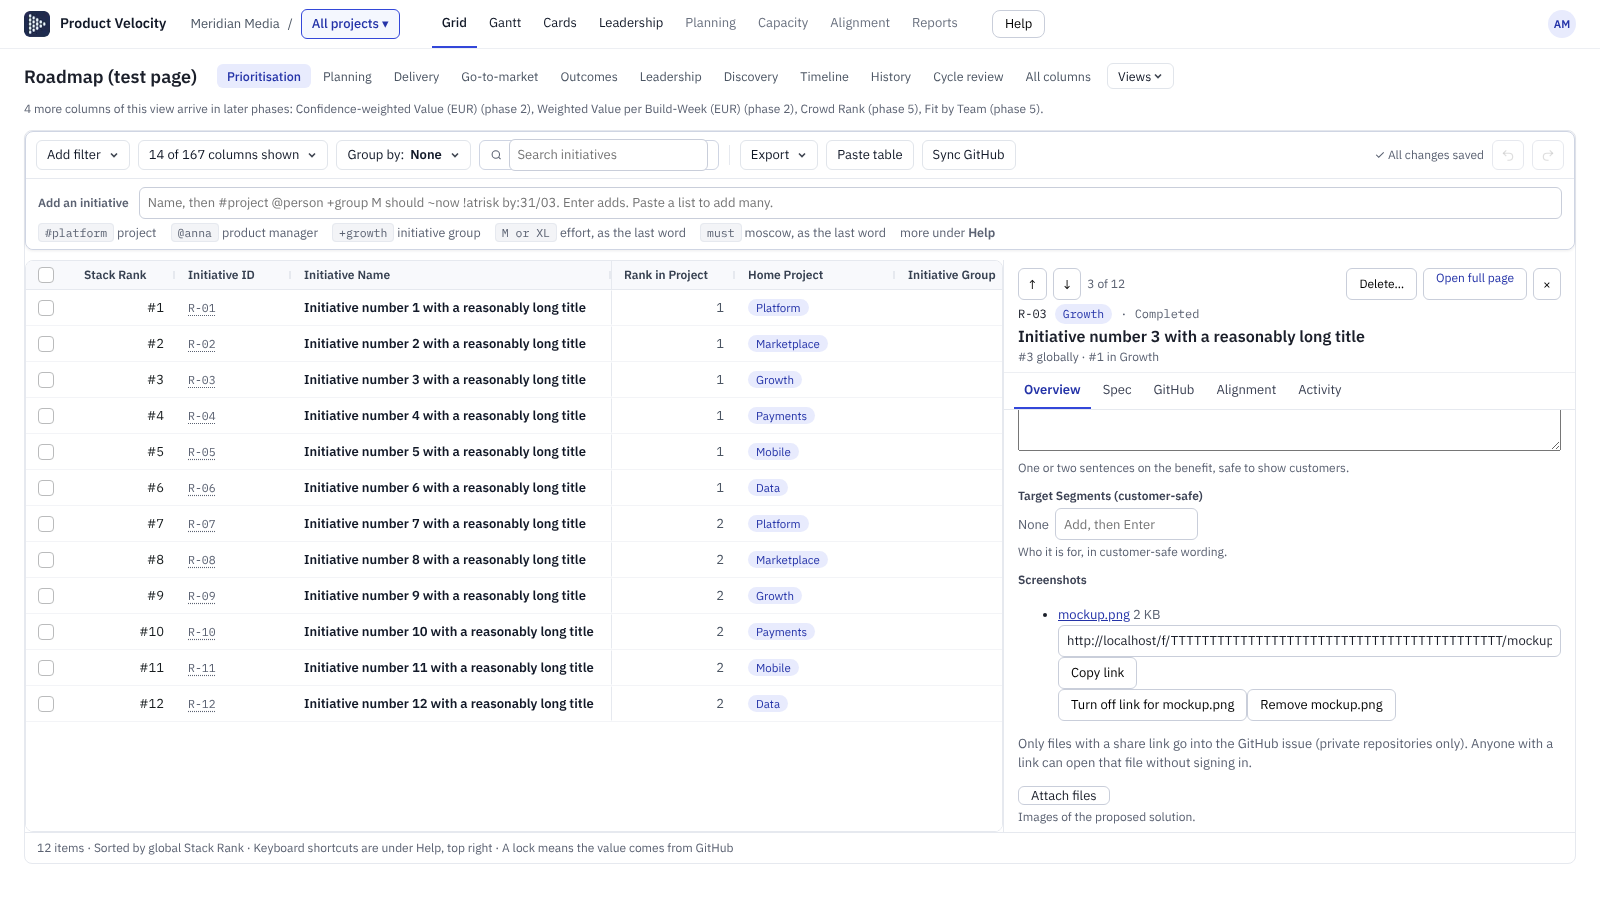
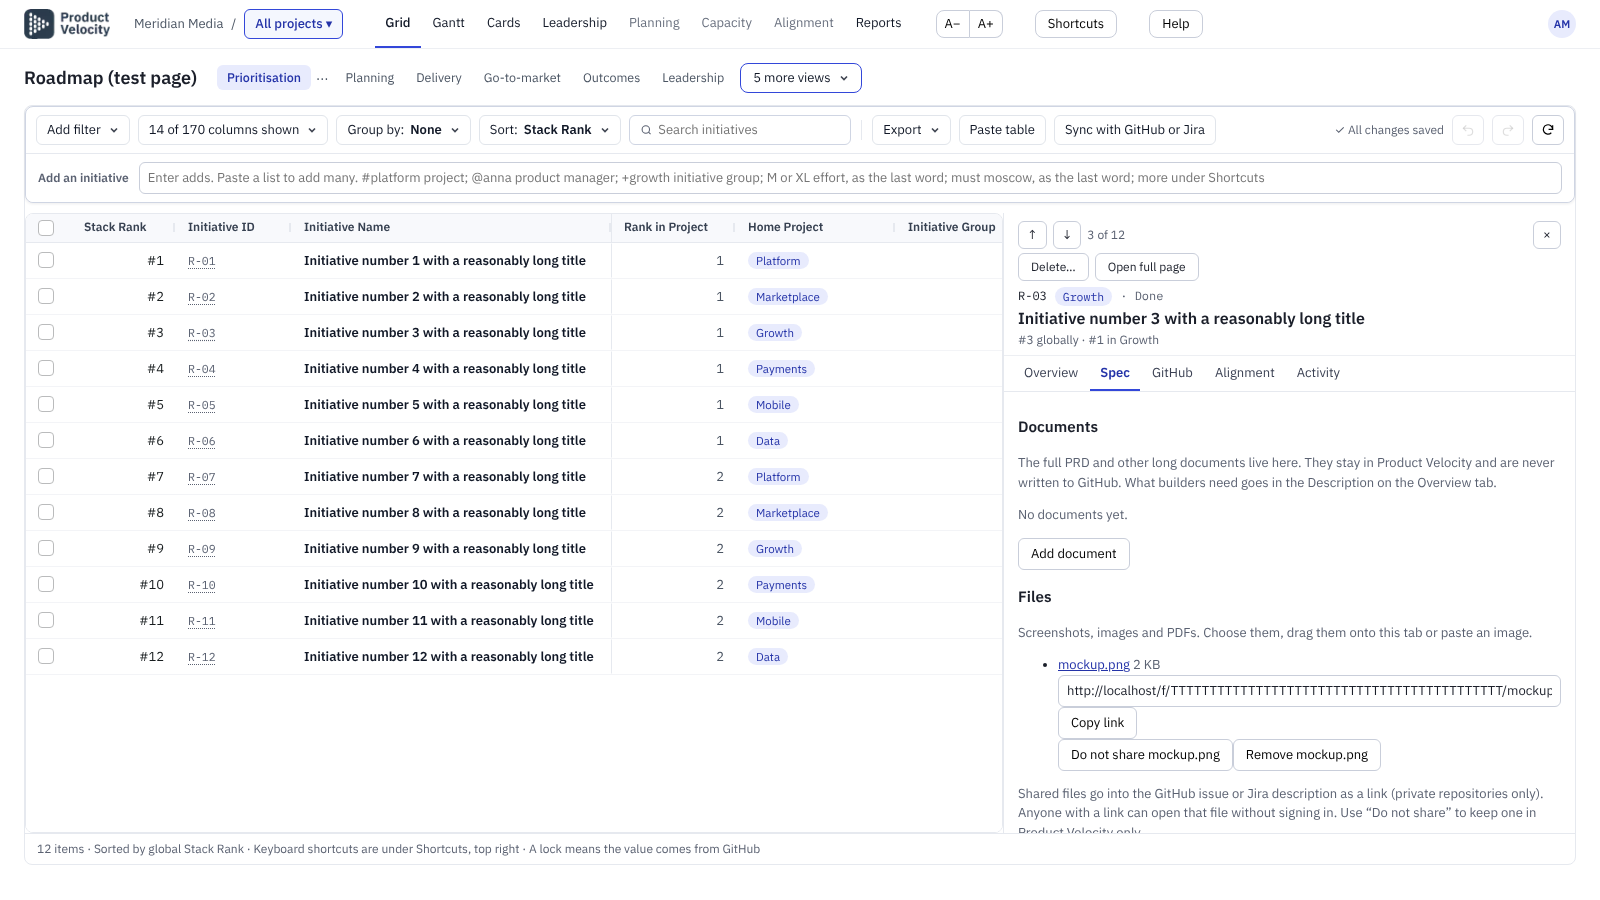
Spec tab: files and links move here from Overview; drag and drop, paste image or URL, shared by default (slice A of #325)
Claude-Session: https://claude.ai/code/session_01TMdyHrrRcezP2D4RnMRurn

diff --git a/apps/web/src/features/portfolio/files-control.tsx b/apps/web/src/features/portfolio/files-control.tsx
@@ -5,13 +5,20 @@ import { formatBytes, MAX_FILES_PER_ITEM } from "@pv/domain";
 
 type FileInfo = { id: string; name: string; mime: string | null; size: number | null; shareUrl: string | null };
 
-/** Files of one initiative: upload, open, remove, and a login-free link per file that can be turned on and off. */
+const ACCEPT = "image/png,image/jpeg,image/gif,image/webp,application/pdf";
+const typingIn = (t: EventTarget | null) => t instanceof HTMLElement && (t.isContentEditable || ["INPUT", "TEXTAREA", "SELECT"].includes(t.tagName));
+
+/**
+ * Files of one initiative (the Spec tab): choose, drag and drop, or paste an image. Every new file is shared with the tracker issue by default
+ * (its login-free link is turned on at once); "Do not share" turns it off per file. Open and remove work as before.
+ */
 export function FilesControl({ itemId, disabled, onError }: { itemId: string; disabled: boolean; onError: (e: string | null) => void }) {
   const id = useId();
   const [files, setFiles] = useState<FileInfo[] | null>(null);
   const [busy, setBusy] = useState(false);
   const [copied, setCopied] = useState<string | null>(null);
   const input = useRef<HTMLInputElement>(null);
+  const [over, setOver] = useState(false);
 
   const load = useCallback(async () => {
     try {
@@ -48,16 +55,37 @@ export function FilesControl({ itemId, disabled, onError }: { itemId: string; di
     }
   };
 
-  const upload = async (list: FileList | null) => {
-    for (const file of Array.from(list ?? [])) {
+  const uploadFiles = async (list: File[]) => {
+    for (const file of list) {
       const form = new FormData();
       form.set("item", itemId);
       form.set("file", file);
-      if (!(await call("/api/files", { method: "POST", body: form }, "The file could not be attached."))) break;
+      const made = (await call("/api/files", { method: "POST", body: form }, "The file could not be attached.")) as { file?: FileInfo } | null;
+      if (!made) break;
+      // shared by default; the person can switch it off per file
+      if (made.file) await call(`/api/files/${made.file.id}/share`, { method: "POST", headers: { "Content-Type": "application/json" }, body: JSON.stringify({ on: true }) }, "The file was attached, but its link could not be turned on.");
     }
     if (input.current) input.current.value = "";
     await load();
   };
+  const upload = (list: FileList | null) => uploadFiles(Array.from(list ?? []));
+
+  // a pasted image becomes a file (not while typing in a box, so pasting text into a document is never intercepted)
+  useEffect(() => {
+    if (disabled) return;
+    const onPaste = (e: ClipboardEvent) => {
+      if (typingIn(e.target)) return;
+      const imgs = Array.from(e.clipboardData?.files ?? []).filter((f) => f.type.startsWith("image/"));
+      if (imgs.length === 0) return;
+      e.preventDefault();
+      const stamp = new Date().toISOString().slice(0, 16).replace("T", " ").replace(":", ".");
+      void uploadFiles(imgs.map((f, i) => (/^image\.\w+$/i.test(f.name) ? new File([f], `Pasted image ${stamp}${imgs.length > 1 ? ` ${i + 1}` : ""}.${f.type.split("/")[1] === "jpeg" ? "jpg" : f.type.split("/")[1]}`, { type: f.type }) : f)));
+    };
+    document.addEventListener("paste", onPaste);
+    return () => document.removeEventListener("paste", onPaste);
+    // eslint-disable-next-line react-hooks/exhaustive-deps
+  }, [disabled, itemId]);
+
   const remove = async (f: FileInfo) => { if (await call(`/api/files/${f.id}`, { method: "DELETE" }, "The file could not be removed.")) await load(); };
   const share = async (f: FileInfo, on: boolean) => {
     const r = (await call(`/api/files/${f.id}/share`, { method: "POST", headers: { "Content-Type": "application/json" }, body: JSON.stringify({ on }) }, "The link could not be changed.")) as { shareUrl: string | null } | null;
@@ -70,7 +98,12 @@ export function FilesControl({ itemId, disabled, onError }: { itemId: string; di
 
   if (!files) return <span className="muted" role="status">Loading…</span>;
   return (
-    <div className="files">
+    <div
+      className={over ? "files files-over" : "files"}
+      onDragOver={(e) => { if (!disabled && e.dataTransfer.types.includes("Files")) { e.preventDefault(); setOver(true); } }}
+      onDragLeave={() => setOver(false)}
+      onDrop={(e) => { setOver(false); if (disabled || e.dataTransfer.files.length === 0) return; e.preventDefault(); void uploadFiles(Array.from(e.dataTransfer.files)); }}
+    >
       {files.length === 0 && <p className="muted">No files yet.</p>}
       <ul className="files-list">
         {files.map((f) => (
@@ -85,18 +118,19 @@ export function FilesControl({ itemId, disabled, onError }: { itemId: string; di
             )}
             {!disabled && (
               <span className="files-actions">
-                <button type="button" className="btn" disabled={busy} onClick={() => share(f, !f.shareUrl)}>{f.shareUrl ? `Turn off link for ${f.name}` : `Create link for ${f.name}`}</button>
+                <button type="button" className="btn" disabled={busy} onClick={() => share(f, !f.shareUrl)}>{f.shareUrl ? `Do not share ${f.name}` : `Share ${f.name}`}</button>
                 <button type="button" className="btn" disabled={busy} onClick={() => remove(f)}>{`Remove ${f.name}`}</button>
               </span>
             )}
           </li>
         ))}
       </ul>
-      {files.length > 0 && <p className="muted">Only files with a share link go into the GitHub issue (private repositories only). Anyone with a link can open that file without signing in.</p>}
+      {files.length > 0 && <p className="muted">Shared files go into the GitHub issue or Jira description as a link (private repositories only). Anyone with a link can open that file without signing in. Use “Do not share” to keep one in Product Velocity only.</p>}
       {!disabled && (
         <>
-          <label className="btn" htmlFor={id}>{busy ? "Uploading…" : "Attach files"}</label>
-          <input id={id} ref={input} type="file" multiple hidden accept="image/png,image/jpeg,image/gif,image/webp,application/pdf" disabled={busy || files.length >= MAX_FILES_PER_ITEM} onChange={(e) => void upload(e.target.files)} />
+          <label className="btn" htmlFor={id}>{busy ? "Uploading…" : "Attach files"}</label>{" "}
+          <span className="muted">or drag files here, or paste an image (⌘V).</span>
+          <input id={id} ref={input} type="file" multiple hidden accept={ACCEPT} disabled={busy || files.length >= MAX_FILES_PER_ITEM} onChange={(e) => void upload(e.target.files)} />
         </>
       )}
     </div>

diff --git a/apps/web/e2e/item-panel.spec.ts b/apps/web/e2e/item-panel.spec.ts
@@ -95,7 +95,7 @@ test.describe("fields", () => {
     await expect(field(page, "value_weighted")).toContainText("calculated from other fields");
     await reveal(page, "Outcomes");
     await expect(field(page, "outcome_verdict")).toContainText("Arrives in phase 7");
-    await expect(panel(page).locator('[data-field]')).toHaveCount(170); // every dictionary field is in the panel, none missing
+    await expect(panel(page).locator('[data-field]')).toHaveCount(168); // every dictionary field is in the Overview except Screenshots and Artifacts, which are on the Spec tab (issue #325)
   });
 
   test("a value typed in the panel appears in the grid at once, and Ctrl+Z undoes it", async ({ page }) => {
@@ -218,16 +218,17 @@ test.describe("list fields", () => {
 
   test("links need an http address; related initiatives by code; teams by checkbox; effort by skill", async ({ page }) => {
     await open(page, "n=40&item=R-01");
-    await reveal(page, "What");
-    const links = field(page, "artifacts");
+    await panel(page).getByRole("tab", { name: "Spec" }).click();
+    const links = panel(page).locator(".pf-links");
     await expect(links.getByRole("link", { name: "PRD" })).toHaveAttribute("href", "https://example.test/prd");
     await links.getByLabel("Link address").fill("not a link");
     await links.getByRole("button", { name: "Add link" }).click();
-    await expect(links.getByRole("alert")).toContainText("http");
+    await expect(panel(page).getByRole("alert")).toContainText("http");
     await links.getByLabel("Link label (optional)").fill("Design");
     await links.getByLabel("Link address").fill("https://example.test/design");
     await links.getByRole("button", { name: "Add link" }).click();
     await expect(links.getByRole("link", { name: "Design" })).toBeVisible();
+    await panel(page).getByRole("tab", { name: "Overview" }).click();
     await reveal(page, "Why");
     const rel = field(page, "related_to");
     await rel.getByLabel("Related initiative (code)").fill("R-09");
@@ -260,12 +261,15 @@ test.describe("list fields", () => {
     await expect(tags).not.toContainText("nope");
   });
 
-  test("screenshots are a file list with an attach button (details in files.spec.ts)", async ({ page }) => {
+  test("files and links are not on the Overview tab; they are on the Spec tab (details in files.spec.ts)", async ({ page }) => {
     await page.route("**/api/files?**", (r) => r.fulfill({ contentType: "application/json", body: JSON.stringify({ files: [] }) }));
     await open(page, "n=40&item=R-01");
     await reveal(page, "What");
-    await expect(field(page, "screenshots")).toContainText("No files yet.");
-    await expect(field(page, "screenshots").getByText("Attach files")).toBeVisible();
+    await expect(field(page, "screenshots")).toHaveCount(0);
+    await expect(field(page, "artifacts")).toHaveCount(0);
+    await panel(page).getByRole("tab", { name: "Spec" }).click();
+    await expect(panel(page)).toContainText("No files yet.");
+    await expect(panel(page).getByText("Attach files")).toBeVisible();
   });
 });
 

diff --git a/apps/web/e2e/files.spec.ts b/apps/web/e2e/files.spec.ts
@@ -35,24 +35,26 @@ const openPanel = async (page: Page, role = "admin") => {
   await page.waitForSelector(".ag-row");
   await page.locator('.ag-row[row-id="item-3"] [col-id="item_code"]').click({ position: { x: 8, y: 8 } });
   await expect(page.getByTestId("item-panel")).toBeVisible();
-  return page.getByTestId("item-panel").locator('[data-field="screenshots"]');
+  await page.getByTestId("item-panel").getByRole("tab", { name: "Spec" }).click();
+  return page.getByTestId("item-panel").locator(".files");
 };
 
 test.describe("Files on an initiative", () => {
-  test("attach, share with a login-free link, turn the link off, remove", async ({ page }) => {
+  test("attach (shared by default with a login-free link), do not share, share again, remove", async ({ page }) => {
     await fakeFiles(page);
     const field = await openPanel(page);
     await expect(field.getByText("No files yet.")).toBeVisible();
     await field.locator('input[type="file"]').setInputFiles({ name: "mockup.png", mimeType: "image/png", buffer: Buffer.from([0x89, 0x50, 0x4e, 0x47, 0, 0, 0, 0]) });
     const row = field.locator('[data-file="mockup.png"]');
     await expect(row.getByRole("link", { name: "mockup.png" })).toHaveAttribute("target", "_blank");
-    await row.getByRole("button", { name: "Create link for mockup.png" }).click();
     await expect(field.getByLabel("Share link for mockup.png")).toHaveValue(new RegExp(`/f/T{43}/mockup.png$`));
     await page.screenshot({ path: "../../docs/screenshots/files-share-link.png" });
-    const r = await new AxeBuilder({ page }).include('[data-field="screenshots"]').withTags(["wcag2a", "wcag2aa"]).analyze();
+    const r = await new AxeBuilder({ page }).include(".files").withTags(["wcag2a", "wcag2aa"]).analyze();
     expect(r.violations.map((x) => x.id)).toEqual([]);
-    await row.getByRole("button", { name: "Turn off link for mockup.png" }).click();
+    await row.getByRole("button", { name: "Do not share mockup.png" }).click();
     await expect(field.getByLabel("Share link for mockup.png")).toHaveCount(0);
+    await row.getByRole("button", { name: "Share mockup.png" }).click();
+    await expect(field.getByLabel("Share link for mockup.png")).toBeVisible();
     await row.getByRole("button", { name: "Remove mockup.png" }).click();
     await expect(field.getByText("No files yet.")).toBeVisible();
   });
@@ -61,7 +63,7 @@ test.describe("Files on an initiative", () => {
     await fakeFiles(page);
     const field = await openPanel(page);
     await field.locator('input[type="file"]').setInputFiles({ name: "bad.svg", mimeType: "image/svg+xml", buffer: Buffer.from("<svg/>") });
-    await expect(field.getByRole("alert")).toHaveText("Only PNG, JPEG, GIF, WebP and PDF files can be attached.");
+    await expect(page.getByTestId("item-panel").getByRole("alert")).toHaveText("Only PNG, JPEG, GIF, WebP and PDF files can be attached.");
   });
 
   test("a viewer sees the files and links but cannot attach, share or remove", async ({ page }) => {

diff --git a/apps/web/src/features/portfolio/item-fields.tsx b/apps/web/src/features/portfolio/item-fields.tsx
@@ -2,7 +2,7 @@
 
 import { DateInput } from "@/components/date-input";
 import { SelectField } from "@/components/search-list";
-import { useId, useState, type ReactNode } from "react";
+import { useEffect, useId, useState, type ReactNode } from "react";
 import {
   canBeEmpty, dateEdge, optionsFor, panelField, quarterMismatch, resolveGroup, type FieldDef, type Link, type PanelField, type RelatedField,
 } from "@pv/domain";
@@ -286,7 +286,7 @@ function TagsEditor({ name, values, disabled, onChange }: { name: string; values
   );
 }
 
-function LinksEditor({ values, disabled, onChange }: { values: Link[]; disabled: boolean; onChange: (l: Link[]) => boolean }) {
+export function LinksEditor({ values, disabled, onChange }: { values: Link[]; disabled: boolean; onChange: (l: Link[]) => boolean }) {
   const [label, setLabel] = useState("");
   const [url, setUrl] = useState("");
   const add = () => { if (url.trim() === "") return; if (onChange([...values, { label, url }])) { setLabel(""); setUrl(""); } };
@@ -410,4 +410,28 @@ function SkillsControl({ f, row, ctx, disabled, onError }: Common) {
       )}
     </div>
   );
+}
+
+/** The links of one initiative (artifacts), edited on the Spec tab. A pasted URL (not typed into a box) is added as a link. */
+export function LinksControl({ ctx, itemId, disabled, onError }: { ctx: FieldCtx; itemId: string; disabled: boolean; onError: (e: string | null) => void }) {
+  const related = ctx.controller.relatedOf(itemId);
+  const list = (related?.artifacts ?? []) as Link[];
+  const set = (next: unknown[]) => { const r = ctx.controller.editRelated(itemId, "artifacts", next); onError(r.ok ? null : r.error); return r.ok; };
+  useEffect(() => {
+    if (disabled || !related) return;
+    const onPaste = (e: ClipboardEvent) => {
+      const t = e.target;
+      if (t instanceof HTMLElement && (t.isContentEditable || ["INPUT", "TEXTAREA", "SELECT"].includes(t.tagName))) return;
+      if ((e.clipboardData?.files.length ?? 0) > 0) return;
+      const text = e.clipboardData?.getData("text/plain").trim() ?? "";
+      if (!/^https?:\/\/\S+$/i.test(text)) return;
+      e.preventDefault();
+      set([...list, { label: "", url: text }]);
+    };
+    document.addEventListener("paste", onPaste);
+    return () => document.removeEventListener("paste", onPaste);
+    // eslint-disable-next-line react-hooks/exhaustive-deps
+  });
+  if (!related) return <span className="muted" role="status">Loading…</span>;
+  return <LinksEditor values={list} disabled={disabled} onChange={set} />;
 }

diff --git a/apps/web/src/features/portfolio/documents-tab.tsx b/apps/web/src/features/portfolio/documents-tab.tsx
@@ -4,6 +4,8 @@ import { useCallback, useEffect, useState } from "react";
 import { AI_TOOL_LABEL, DOC_KIND_LABEL, DOC_KINDS, MAX_DOC_CHARS, MAX_DOCS_PER_ITEM } from "@pv/domain";
 import type { DocView } from "@/lib/documents";
 import { MarkdownPreview } from "./markdown-preview";
+import { FilesControl } from "./files-control";
+import { LinksControl, type FieldCtx } from "./item-fields";
 
 type Version = { version: number; saved_at: string; saved_via: string; ai_tool?: string | null; ai_model?: string | null; saved_by_name?: string | null };
 /** "Claude (Claude Opus 5.5)": the AI tool from the connection and the model the assistant stated. */
@@ -14,7 +16,7 @@ const STATUS_LABEL: Record<string, string> = { draft: "Draft", in_review: "In re
  * The Spec tab: the documents of one initiative (the full PRD, requirements, research). Versioned Markdown that stays in Product Velocity:
  * it is never written to GitHub. Saves on leaving a box, keeps every version (restoring one is the undo), and never overwrites a newer save.
  */
-export function DocumentsTab({ itemId, canEdit }: { itemId: string; canEdit: boolean }) {
+export function DocumentsTab({ itemId, canEdit, ctx }: { itemId: string; canEdit: boolean; ctx: FieldCtx }) {
   const [docs, setDocs] = useState<DocView[] | null>(null);
   // a link from the activity log opens the document: ?item=R-12&tab=spec&doc=<id>
   const [openId, setOpenId] = useState<string | null>(() => {
@@ -68,6 +70,12 @@ export function DocumentsTab({ itemId, canEdit }: { itemId: string; canEdit: boo
         ))}
       </ul>
       {canEdit && <button type="button" className="btn" disabled={docs.length >= MAX_DOCS_PER_ITEM} onClick={() => void create()}>Add document</button>}
+      <h3>Files</h3>
+      <p className="muted">Screenshots, images and PDFs. Choose them, drag them onto this tab or paste an image.</p>
+      <FilesControl itemId={itemId} disabled={!canEdit} onError={setError} />
+      <h3>Links</h3>
+      <p className="muted">Figma, Claude artifacts, Drive and other pages. Paste a web address anywhere on this tab to add it.</p>
+      <LinksControl ctx={ctx} itemId={itemId} disabled={!canEdit} onError={setError} />
     </div>
   );
 }

diff --git a/apps/web/src/features/portfolio/item-panel.tsx b/apps/web/src/features/portfolio/item-panel.tsx
@@ -193,7 +193,7 @@ export function ItemPanel({ controller, lookups, itemId, me, mode, position, onC
       <div ref={bodyRef} className="ip-body" role="tabpanel" id={`${titleId}-panel-${tab}`} aria-labelledby={`${titleId}-tab-${tab}`}>
         {loadError && <p role="alert" className="pf-error">Could not load the lists of this initiative: {loadError}</p>}
         {tab === "overview" && <Overview ctx={ctx} itemId={itemId} />}
-        {tab === "spec" && <DocumentsTab itemId={itemId} canEdit={controller.canEdit} />}
+        {tab === "spec" && <DocumentsTab itemId={itemId} canEdit={controller.canEdit} ctx={ctx} />}
         {tab === "github" && (trackerName === "Jira" ? <JiraTab controller={controller} lookups={lookups} itemId={itemId} /> : <GithubTab controller={controller} lookups={lookups} itemId={itemId} />)}
         {tab === "alignment" && <EmptyTab title="Alignment" text="Votes, sign-offs and the decision log for this initiative arrive with alignment, in phases 5 and 8." />}
         {tab === "activity" && <ActivityTab controller={controller} lookups={lookups} itemId={itemId} me={me} />}
@@ -208,13 +208,16 @@ const fieldMatches = (f: { name: string; key: string; description?: string | nul
   return q.toLowerCase().split(/\s+/).filter(Boolean).every((w) => hay.includes(w));
 };
 
+/** Files and links are added and edited on the Spec tab (issue #325). */
+const MOVED_TO_SPEC = ["screenshots", "artifacts"];
+
 function Overview({ ctx, itemId }: { ctx: FieldCtx; itemId: string }) {
   const row = ctx.controller.row(itemId)!;
   const sections = useMemo(() => panelSections(), []);
   const [query, setQuery] = useState("");
   const q = query.trim();
   const shown = useMemo(
-    () => sections.map((s) => ({ ...s, total: s.fields.length, fields: s.fields.filter((f) => f.key !== "health" && (!q || fieldMatches(f, q))) })).filter((s) => !q || s.fields.length > 0),
+    () => sections.map((s) => ({ ...s, total: s.fields.length, fields: s.fields.filter((f) => f.key !== "health" && !MOVED_TO_SPEC.includes(f.key) && (!q || fieldMatches(f, q))) })).filter((s) => !q || s.fields.length > 0),
     [sections, q],
   );
   const healthShown = !q || fieldMatches(FIELD_BY_KEY.health!, q);

diff --git a/apps/web/src/styles/globals.css b/apps/web/src/styles/globals.css
@@ -829,3 +829,4 @@ a.scope-link:hover, a.scope-link:focus-visible { background: var(--blue-tint-2);
 .rp-kpi-btn:hover { background: var(--grey-3); }
 .rp-kpi-btn[aria-pressed="true"] { background: var(--blue-tint-1); border-color: var(--blue); color: var(--blue-text); }
 .rp-kpi-btn:focus-visible { outline: 2px solid var(--blue); outline-offset: 1px; }
+.files-over { outline: 2px dashed var(--accent, #3347D9); outline-offset: 2px; background: #f5f6ff; }

diff --git a/docs/decisions/2026-11-05-spec-attachments.md b/docs/decisions/2026-11-05-spec-attachments.md
@@ -1,0 +1,12 @@
+---
+date: 2026-11-05
+by: Ashu, proposed by Claude
+request: 325
+status: in progress (slice A)
+---
+**One Spec tab, one list of attachments per initiative (issue #325).** Today there are three systems: written documents (`item_documents`, Spec tab), files/screenshots (`item_files`, Overview) and artifact links (`item_links`, Overview). They become one list of entries of three kinds: written (Markdown with versions and approval), file, link. All add and edit moves to the Spec tab; Overview keeps a read-only summary that opens it.
+
+- **Adding.** One Add control (Write, Upload file, Add link), drag and drop onto the tab, paste an image (becomes a file), paste a URL (becomes a link).
+- **Sharing.** Every file and link is shared with GitHub/Jira by default, with a "Do not share" switch per entry. Written documents are never sent (rule 2 and the existing test). Links go out as today; files go out as their share link, in private repositories only (unchanged guard). **Risk, to confirm:** default-on means each uploaded file gets a login-free link. Slice A keeps today's behaviour (a link is created when the file is shared); the switch defaults to on for new uploads.
+- **Slices.** A: UI over the existing tables. B: `item_attachments` table, forward-only migration, one dictionary field instead of `artifacts` and `screenshots` (needs the CSV/workbook updated), unified MCP tools, Help "AI agents" tab. C: thumbnails, lightbox, PDF preview, search and filters, more kinds, link title fetch.
+- **Parity.** Tracker payloads do not change; GitHub and Jira are served by the same data.

diff --git a/docs/requests/325-merge-specs-files-links.md b/docs/requests/325-merge-specs-files-links.md
@@ -1,0 +1,9 @@
+---
+issue: 325
+status: in progress
+logged: 2026-11-05
+title: Merge Specs, Screenshots and Artifacts into one Spec tab
+---
+Ashu: "We have 3 in different places: Specs (name, type, write directly in PV), Screenshots, Artifacts. Merge all 3 into one system (Specs) and keep the option to write/paste in PV. Drag and drop files, paste an image. Move all adding/editing to the Specs tab and remove the upload from Overview. Open to ideas."
+
+Decided the same day: merge the tables; build all three slices in order (A: Spec tab UI, B: merged table + MCP + dictionary, C: thumbnails, search, kinds); sharing with GitHub/Jira is ON by default for every entry, with a "Do not share" option per entry. Details: `docs/decisions/2026-11-05-spec-attachments.md`.

diff --git a/docs/releases/unreleased/20261105-spec-tab-files-links.md b/docs/releases/unreleased/20261105-spec-tab-files-links.md
@@ -1,0 +1,4 @@
+---
+bump: minor
+---
+**Files and links now live on the Spec tab.** Screenshots (files) and Artifacts (links) move from the Overview tab to the Spec tab, next to the documents. Attach files by choosing them, dragging them onto the tab or pasting an image; paste a web address to add a link. New files are shared with the GitHub issue or Jira description by default (private repositories only, as before); "Do not share" keeps one in Product Velocity only. Written documents are still never sent.
